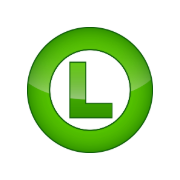
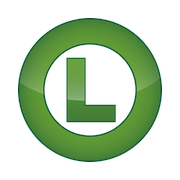
Add files via upload

diff --git a/public/assets/ochilink-favicon-guide.md b/public/assets/ochilink-favicon-guide.md
@@ -1,0 +1,115 @@
+# Ochilink Favicon & Icon Package
+
+This package provides a production-ready icon and favicon set generated from the original Ochilink vector mark (`OL.svg`).
+
+---
+
+## 📦 Included Assets & Specifications
+
+| Asset | Dimensions | Format | Purpose |
+| :--- | :--- | :--- | :--- |
+| `favicon.svg` | Scalable Vector | SVG | Modern browsers (Chrome, Firefox, Safari 16+, Edge). Sharp at any resolution. |
+| `favicon.ico` | 16x16, 32x32, 48x48 | Multi-res ICO | Legacy browsers, desktop bookmarks, legacy shortcuts. |
+| `favicon-16x16.png` | 16x16 px | Transparent PNG | Standard browser tab icon (1x display). |
+| `favicon-32x32.png` | 32x32 px | Transparent PNG | High-DPI / Retina browser tab icon. |
+| `favicon-48x48.png` | 48x48 px | Transparent PNG | Windows desktop shortcuts & search listing icon. |
+| `favicon-96x96.png` | 96x96 px | Transparent PNG | Google search results icon and taskbar shortcuts. |
+| `apple-touch-icon.png` | 180x180 px | PNG (padded) | iOS Safari Add to Home Screen (prevents iOS black background bug). |
+| `apple-touch-icon-brand.png` | 180x180 px | PNG (#00532b) | Alternative Apple touch icon with brand forest green background. |
+| `android-chrome-192x192.png` | 192x192 px | PNG | Android Chrome home screen & PWA installable app icon. |
+| `android-chrome-512x512.png` | 512x512 px | PNG | PWA splash screen & high-res mobile icon. |
+| `android-chrome-maskable-192x192.png` | 192x192 px | PNG (maskable) | Android adaptive icon with 18% safe-zone margin. |
+| `android-chrome-maskable-512x512.png` | 512x512 px | PNG (maskable) | High-res Android adaptive icon. |
+| `mstile-150x150.png` | 150x150 px | PNG (#00532b) | Windows Start Menu pinned tile icon. |
+| `icon-1024x1024.png` | 1024x1024 px | PNG | Master high-res brand icon for app stores, avatars, and marketing. |
+| `site.webmanifest` | JSON | Manifest | Web App Manifest configuration file. |
+| `browserconfig.xml` | XML | Config | Microsoft Windows browser tile configuration. |
+
+---
+
+## 🚀 HTML Integration
+
+Add the following tags to the `<head>` section of your website or web application:
+
+```html
+<!-- Primary Vector Favicon (Modern Browsers) -->
+<link rel="icon" type="image/svg+xml" href="/favicon.svg" />
+
+<!-- Fallback PNG Favicons -->
+<link rel="icon" type="image/png" sizes="96x96" href="/favicon-96x96.png" />
+<link rel="icon" type="image/png" sizes="32x32" href="/favicon-32x32.png" />
+<link rel="icon" type="image/png" sizes="16x16" href="/favicon-16x16.png" />
+
+<!-- Legacy Favicon for older browsers -->
+<link rel="shortcut icon" href="/favicon.ico" />
+
+<!-- Apple Touch Icon (iOS Home Screen) -->
+<link rel="apple-touch-icon" sizes="180x180" href="/apple-touch-icon.png" />
+
+<!-- Web App Manifest (Android, Chrome, PWA) -->
+<link rel="manifest" href="/site.webmanifest" />
+
+<!-- Browser & Theme Colors -->
+<meta name="apple-mobile-web-app-title" content="Ochilink" />
+<meta name="application-name" content="Ochilink" />
+<meta name="theme-color" content="#00532b" />
+<meta name="msapplication-TileColor" content="#00532b" />
+<meta name="msapplication-config" content="/browserconfig.xml" />
+```
+
+---
+
+## 📱 `site.webmanifest` Configuration
+
+```json
+{
+  "name": "Ochilink",
+  "short_name": "Ochilink",
+  "icons": [
+    {
+      "src": "/favicon-16x16.png",
+      "sizes": "16x16",
+      "type": "image/png"
+    },
+    {
+      "src": "/favicon-32x32.png",
+      "sizes": "32x32",
+      "type": "image/png"
+    },
+    {
+      "src": "/android-chrome-192x192.png",
+      "sizes": "192x192",
+      "type": "image/png"
+    },
+    {
+      "src": "/android-chrome-512x512.png",
+      "sizes": "512x512",
+      "type": "image/png"
+    },
+    {
+      "src": "/android-chrome-maskable-192x192.png",
+      "sizes": "192x192",
+      "type": "image/png",
+      "purpose": "maskable"
+    },
+    {
+      "src": "/android-chrome-maskable-512x512.png",
+      "sizes": "512x512",
+      "type": "image/png",
+      "purpose": "maskable"
+    }
+  ],
+  "theme_color": "#00532b",
+  "background_color": "#ffffff",
+  "display": "standalone"
+}
+```
+
+---
+
+## 🎨 Brand Palette Summary
+
+- **Primary Dark Green**: `#00532b` (Deep forest shadow & theme color)
+- **Primary Mid Green**: `#417b37` (Gradient start)
+- **Accent Kelly Green**: `#67a135` (Gradient highlight)
+- **Background Contrast**: `#ffffff` (White base for iOS/maskable safe padding)
